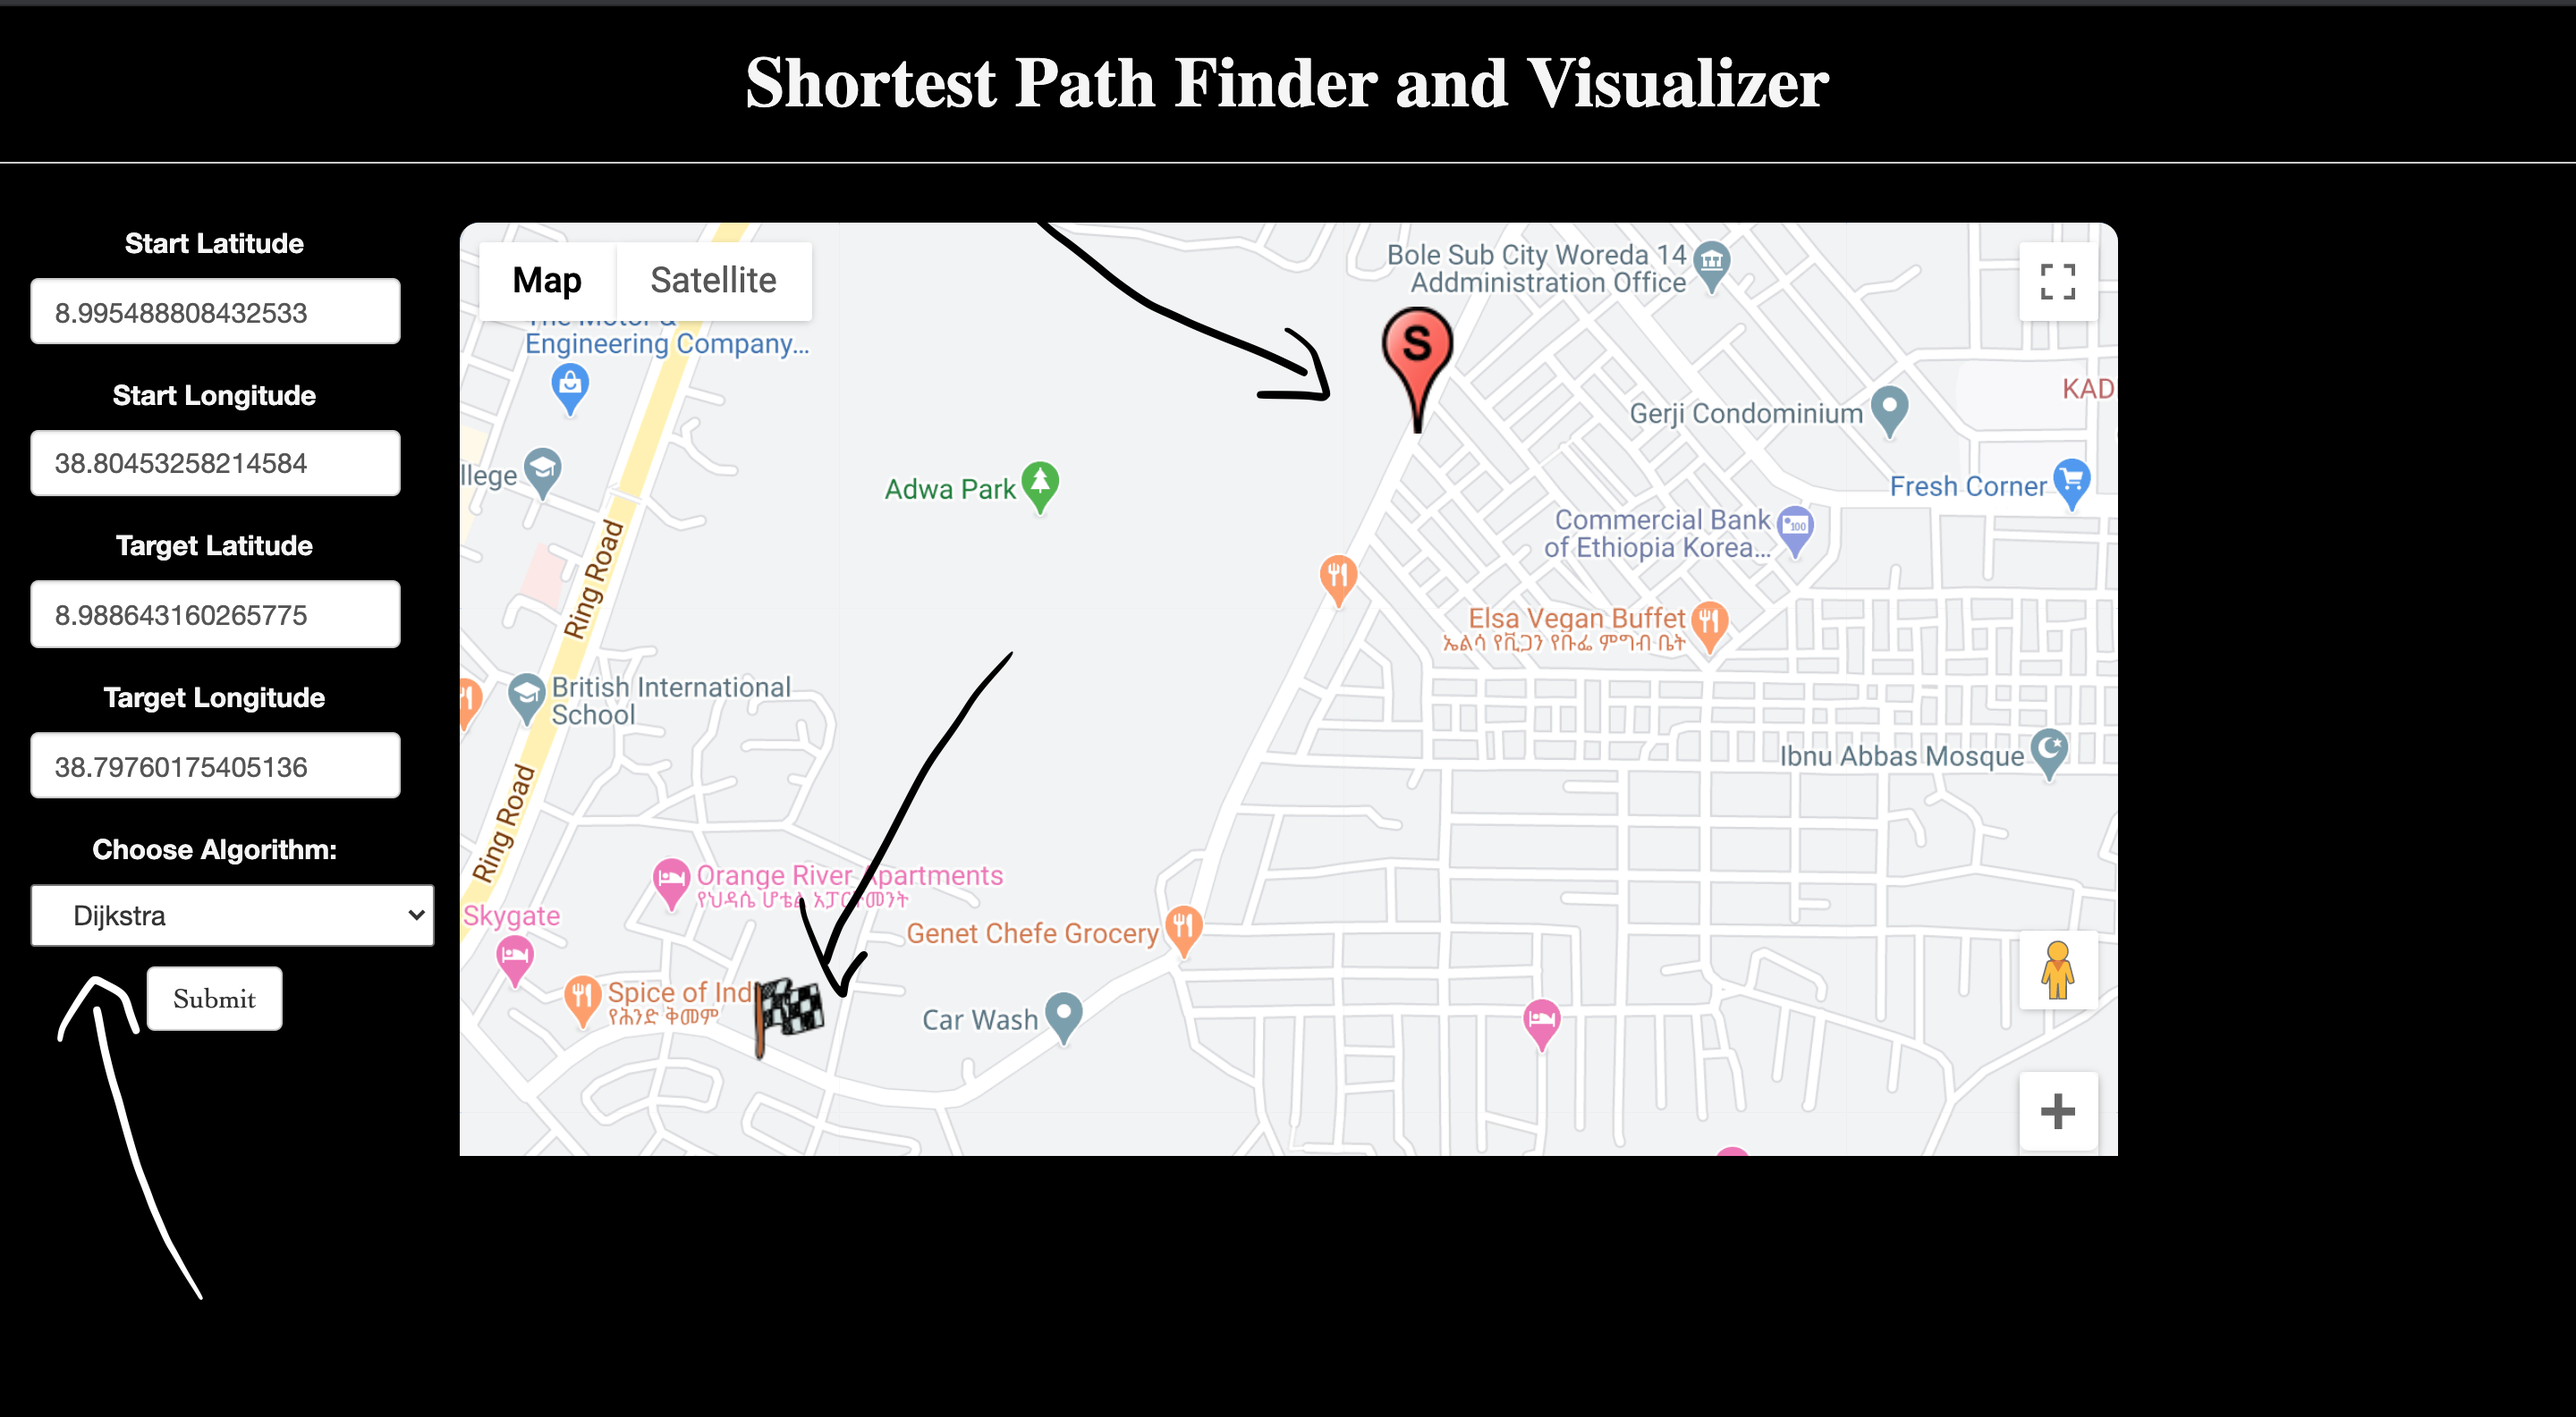
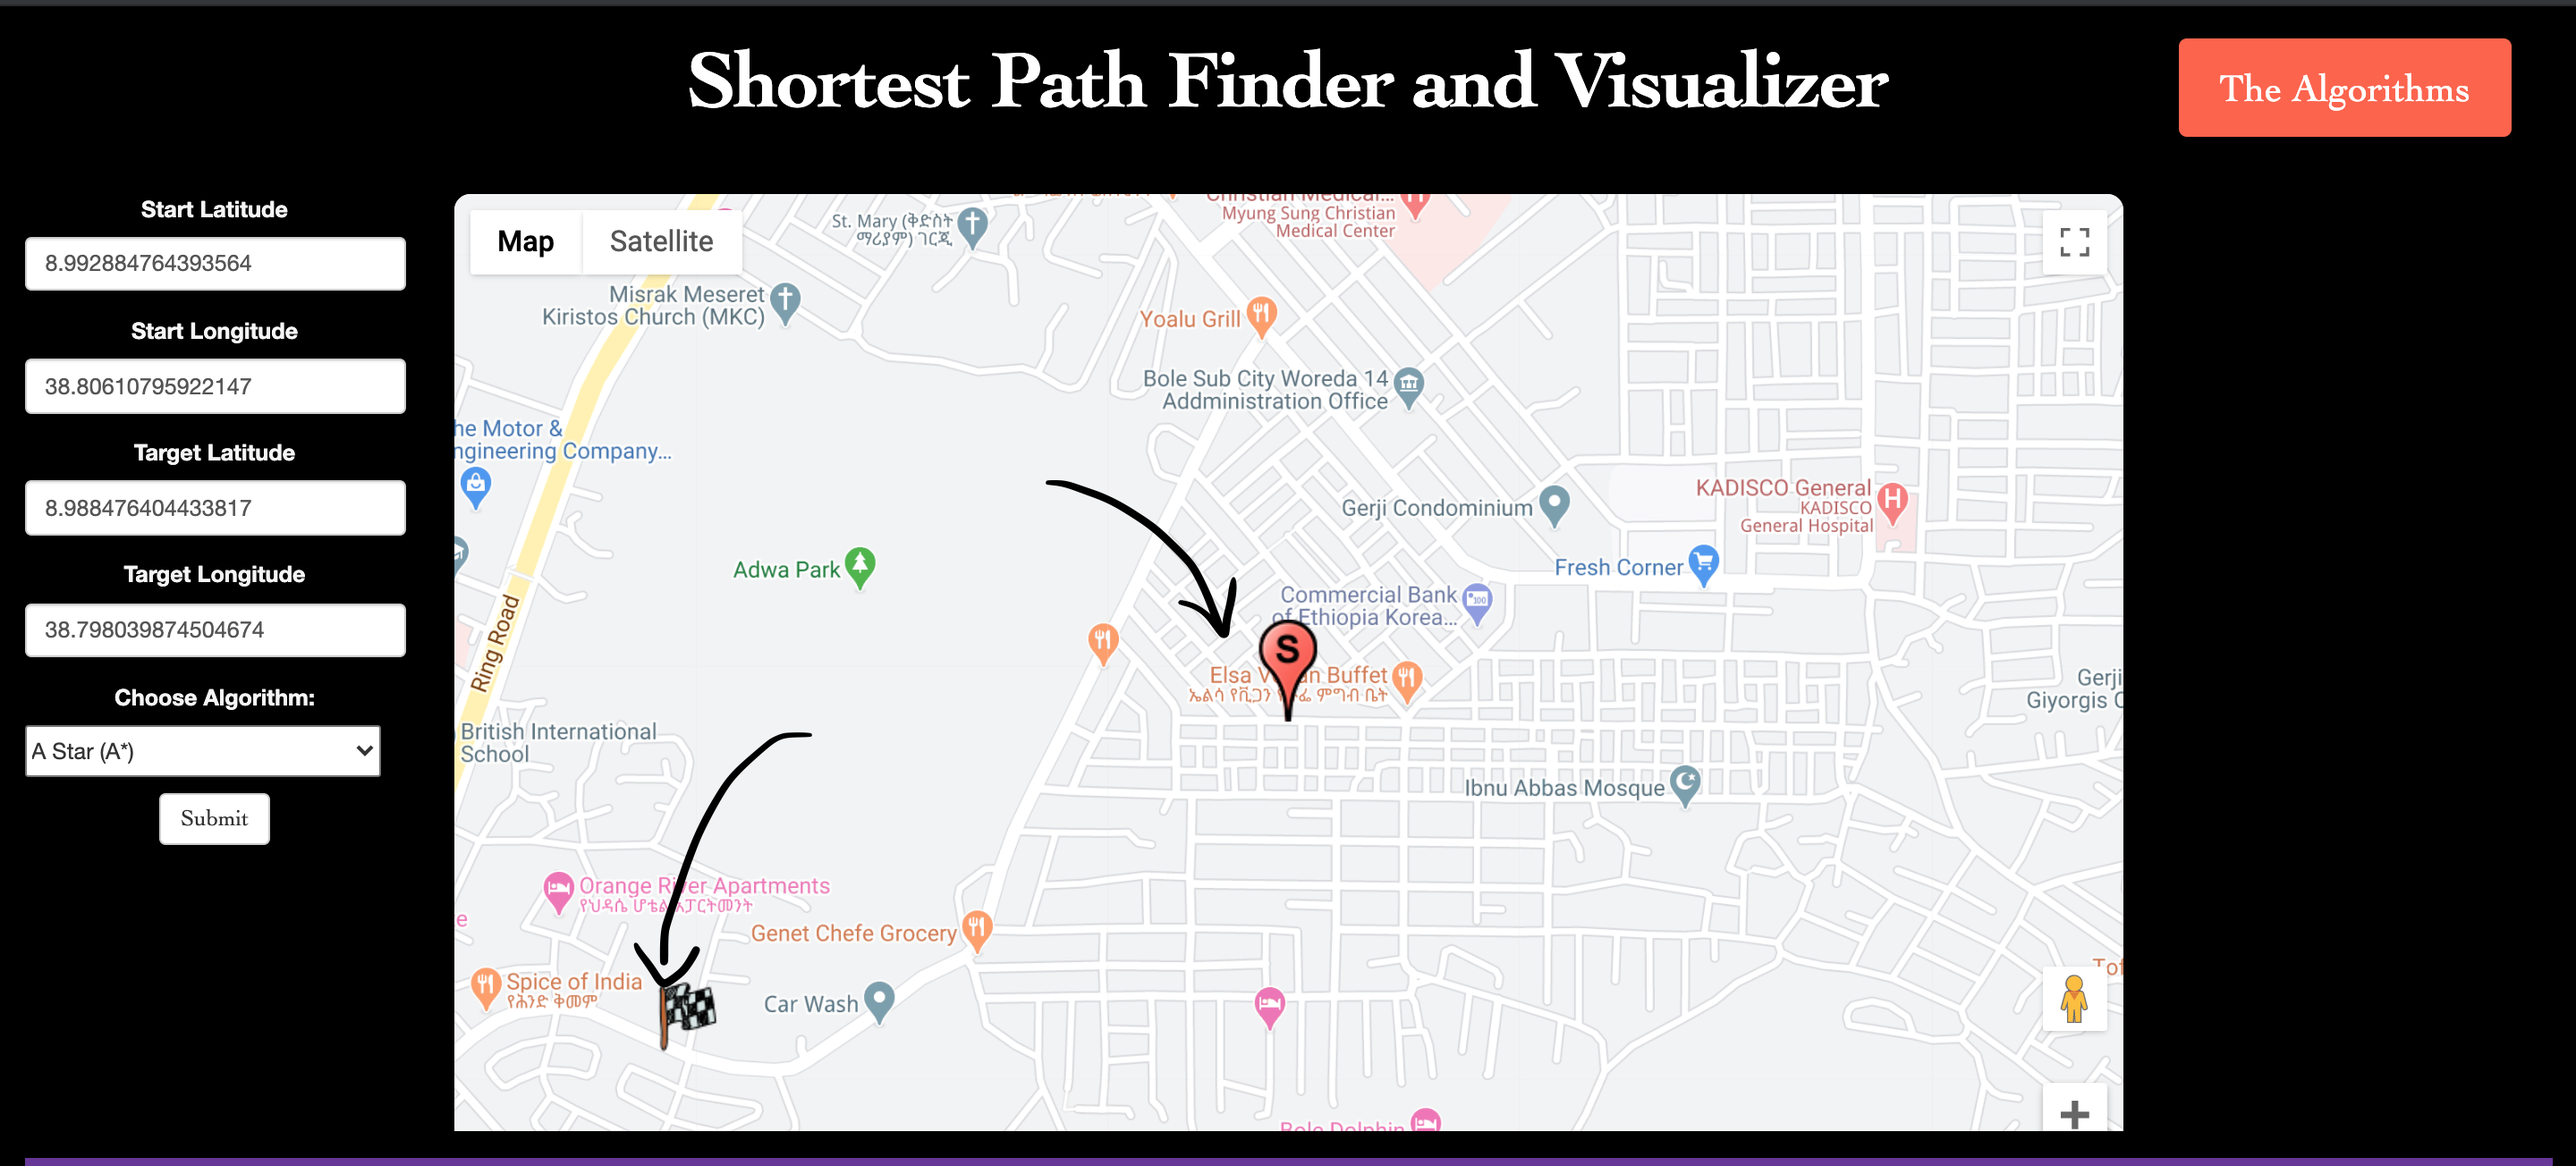
improved UI and Read file

diff --git a/addismap/addismap/templates/mapvis/mapapp.html b/addismap/addismap/templates/mapvis/mapapp.html
@@ -22,13 +22,22 @@
 
     </head>
     <body style="background-color: black;">
-        <header>
-            <div style="background-color:coral" class="heading">Shortest Path Finder and Visualizer</div>  
-          </header>
-
+        <div class="container-fluid">
+            <div class="row">
+                <div class="col-sm-2"></div>
+                <div style="margin-top: 10px;"class="col-sm-8">
+                    <div class="heading">Shortest Path Finder and Visualizer</div>  
+                </div>
+                <div class="col-sm-2">
+                    <form>
+                        <button id="back" style="margin-top: 20px; font-size: 22px;"class="follow-button" formaction="{% url 'index' %}">The Algorithms</button>
+                    </form>
+                </div>
+            </div>
+        </div>
     <div class="container-fluid">
         
-        <div class="row" style="margin-top: 30px;">
+        <div class="row" style="margin-top: 20px;">
             <div class="col-sm-2">
                 <div>
                     <form action="" method="POST" role="form" id="latlngform">
@@ -79,8 +88,32 @@
             </div>
             <div class="col-sm-2"></div>
         </div>
-        
+
+        <div style="background-color:rebeccapurple" class="heading">Instructions</div>
+
+
+
+        <div class="row">
+            <div class="col-sm-2"></div>
+            <div class="col-sm-8">
+                <ol class="steps">
+                    <li><p>Click on the map to set the start and end destination. The start is symboled with a (S) on the map, while the destination is symboled with a flag. The form on the left hand side will automatically fill when selecting the start and destination markers</p></li>
+                    <li><p>Select your chosen path finding algorithm from the dropdown </p></li>
+                    <li><p>Click Submit and you will be redirected to a page which shows: </p></li>
+                        <ul style="font-size: 26px;">
+                            <li>--> Shortest Path Calcuated Using the Algorithm</li></span>
+                            <li>--> Visualizer for The algorithm</li>
+                            <li>--> Comaparison of Path To Google Directions API Path</li>
+                        </ul>
+
+                    
+                </ol>
+
+            </div>
+            <div class="col-sm-2"></div>
         </div>
+        
+    </div>
 
         
       </div>

diff --git a/addismap/static/js/visualizer.js b/addismap/static/js/visualizer.js
@@ -321,40 +321,6 @@ function updateStartBtnText(){
 	return;
 }
 
-// Used to display error messages
-function update(message){
-	$("#resultsIcon").removeClass();
-	$("#resultsIcon").addClass("fas fa-exclamation");
-	$('#results').css("background-color", "#ffc107");
-	$("#length").text("");
-	if (message == "wait"){
-		$("#duration").text("Please wait for the algorithm to finish.");
-	}
-}
-
-// Used to display results
-function updateResults(duration, pathFound, length){
-	var firstAnimation = "swashOut";
-	var secondAnimation = "swashIn";
-	$("#results").removeClass();
-    $("#results").addClass("magictime " + firstAnimation); 
-    setTimeout(function(){ 
-    	$("#resultsIcon").removeClass();
-    	//$("#results").css("height","80px");
-    	if (pathFound){
-    		$('#results').css("background-color", "#77dd77");
-    		$("#resultsIcon").addClass("fas fa-check");
-    	} else {
-    		$('#results').css("background-color", "#ff6961");
-    		$("#resultsIcon").addClass("fas fa-times");
-    	}
-    	$("#duration").text("Duration: " + duration + " ms");
-    	$("#length").text("Length: " + length);
-    	$('#results').removeClass(firstAnimation);
-    	$('#results').addClass(secondAnimation); 
-    }, 1100);
-}
-
 // Counts length of success
 function countLength(){
 	var cells = $("td");
@@ -374,11 +340,6 @@ async function traverseGraph(algorithm){
 	var pathFound = executeAlgo();
 	var endTime = Date.now();
 	await animateCells();
-	if ( pathFound ){ 
-		updateResults((endTime - startTime), true, countLength());
-	} else {
-		updateResults((endTime - startTime), false, countLength());
-	}
 	inProgress = false;
 	justFinished = true;
 }

diff --git a/addismap/addismap/templates/mapvis/show.html b/addismap/addismap/templates/mapvis/show.html
@@ -129,16 +129,6 @@
            
         </div>
 
-        <div class ="d-flex flex-column" id="results" style="margin-bottom: 100px;">
-            <div class="d-flex justify-content-center"> 
-                <i id="resultsIcon" class="fas fa-exclamation"></i>
-            </div>
-            <div id="duration" class="d-flex justify-content-center"> 
-                Please select an algorithm and press start.
-            </div>
-            <div id="length" class="d-flex justify-content-center"> 	
-            </div>	 	
-        </div>
 
 
         <script src="https://code.jquery.com/jquery-3.2.1.slim.min.js" integrity="sha384-KJ3o2DKtIkvYIK3UENzmM7KCkRr/rE9/Qpg6aAZGJwFDMVNA/GpGFF93hXpG5KkN" crossorigin="anonymous"></script>

diff --git a/addismap/static/css/main.css b/addismap/static/css/main.css
@@ -64,6 +64,15 @@ label.light {
     display: inline;
 }
 
+.steps {
+    font-family: 'Roboto Mono', monospace;;
+    font-weight: bold;
+    letter-spacing: -1px;
+    color: white;
+    font-size: 30px;
+}
+
+
 select {
     height: 32px;
     border-radius: 2px;

diff --git a/addismap/addismap/urls.py b/addismap/addismap/urls.py
@@ -18,12 +18,10 @@ from django.urls import path, include
 from mapvis.views import mapapp
 from mapvis.views import showPath
 #from mapvis.views import update
-from bobbin_lace.views import memb_reg
 
 urlpatterns = [
     path('admin/', admin.site.urls),
     path('', mapapp, name="index"),
     path('showpath/', showPath, name="showpath"),
     #path('update', update),
-    path('bobbin_lace', memb_reg)
 ]

diff --git a/README.md b/README.md
@@ -2,29 +2,45 @@
 
 # Introduction
 
-This project was inspired by my desire to learn different path finding algorithms. I was really interested and drawn by the enormous applications of path finding algorithms and the different varieties of these types of algorithms.
+This project was inspired by my desire to learn different path finding algorithms.
 
-Pathfinding algorithms are usually an attempt to solve the shortest path problem in graph theory. They try to find the best path given a starting point and ending point based on some predefined criteria. In graph theory, the shortest path problem is the problem of finding a path between two vertices (or nodes) in a graph such that the sum of the weights of its constituent edges is minimized. In the case of unweighted graphs, this isn't really important.
+Pathfinding algorithms are an attempt to solve the shortest path problem in graph theory. They try to find the best path given a starting point and ending point based on some predefined criteria. In graph theory, the shortest path problem is the problem of finding a path between two vertices (or nodes) in a graph such that the sum of the weights of its constituent edges is minimized.
 
 I grew up in Addis Ababa, Ethiopia in the subcity Gerji. Growing up, I realized that people go around to places using landmarks such as historical buildings or statues... and nobody really uses nagivation or GPS on their map. This is in stark contrast to how people move around in New York City or any developed country. 
 
-There are a variety of reasons for why this is. First, **Internet in Ethiopia** is very expensive and most people can't afford to use their data on navigation. Second, the general population ***don't really have advanced smart phones*** as compared to US or Western Countires. And finally, the navigation apps such as Google Maps don't really give the shortest path as they rely mostly on roads and there are a majority of roads in Ethiopia that aren't recongized as roads and there are alot of shortcuts people use that don't appear on Google Maps.
+There are a variety of reasons for why this is. 
 
-## AddisMap Application
+First, **Internet in Ethiopia** is very expensive and most people can't afford to use their data on navigation and most people don't even have a smartphone.
 
-This application allows you to set two markers on the google map API (Start, Destination). The Markers are defined by (S) for the start and a (FLAG) for the destination. The scope of the map area is in the sub city (GERJI) I grew up in. 
+Second, the navigation apps such as Google Maps don't really give the shortest path as they rely mostly on roads and there are a majority of roads in Ethiopia that aren't recognized as roads and there are alot of shortcuts people use that don't appear on Google Maps.
+
+I created this app initally for the area where I grew up and went to school (Gerji, Addis Ababa). I wanted to see if the shortest path that was calculated was the path my parents and I usually used. 
+
+## Choosing The Marker
+
+![](images/instructions.png)
+
+This application allows you to set two markers on the google map API (Start, Destination). The Markers are defined by (S) for the start and a (FLAG) for the destination. The scope of the map area is in the sub city (GERJI) I grew up in. (I will add a couple other areas soon, ==> Queens, NY around St John's University and Berlin, Germany around Berlin International School)
 
 After choosing the markers, the latitude and longitude are stored and you are able to set the path finding algorithm (Breadth First Search, Depth First Search, Dijkstra, Greedy First Search, A-Star...) and it will use that algorithm for you to find the path.
 
 ![](images/frontpage.png)
 
-**Example Path Finding Using Dijkstra's Algorithm**
+## Shortest Path
+
+**Example Path Finding Using A-Star Algorithm**
 
 ![](images/path.png)
+
+## Visualizer
 
 **If you scroll down, you can also see a visualizer of the algorithm! I feel that the visualizers are really important for understanding how these algorithms work. You can set mazes, block walls and understand how an algorithm finds the shortest path.**
 
 ![](images/visualizer.gif)
+
+## Path Comparision To Google API Directions
+
+![](images/googlepath.png)
 
 ## HOW TO CLONE AND USE THIS PROJECT:
 
